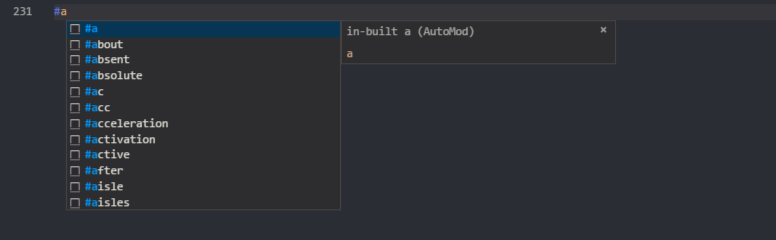
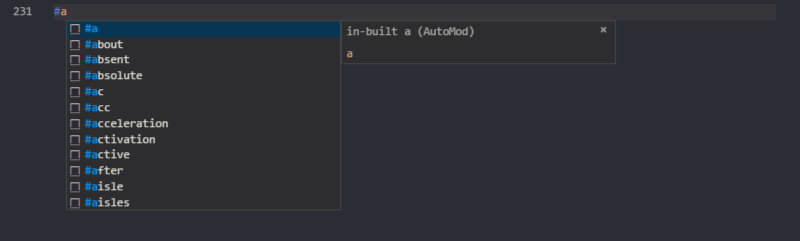
change picture width 800px

diff --git a/README.md b/README.md
@@ -46,6 +46,6 @@ Initial release of AutoMod language support for VS Code
 
 ## Links
 
-* [~~AutoMod Integration tutorial~~ (deprecated)](https://sites.google.com/view/automod-vscode/home)
+* [AutoMod Integration tutorial (deprecated)](https://sites.google.com/view/automod-vscode/home)
 
 **Enjoy!**
